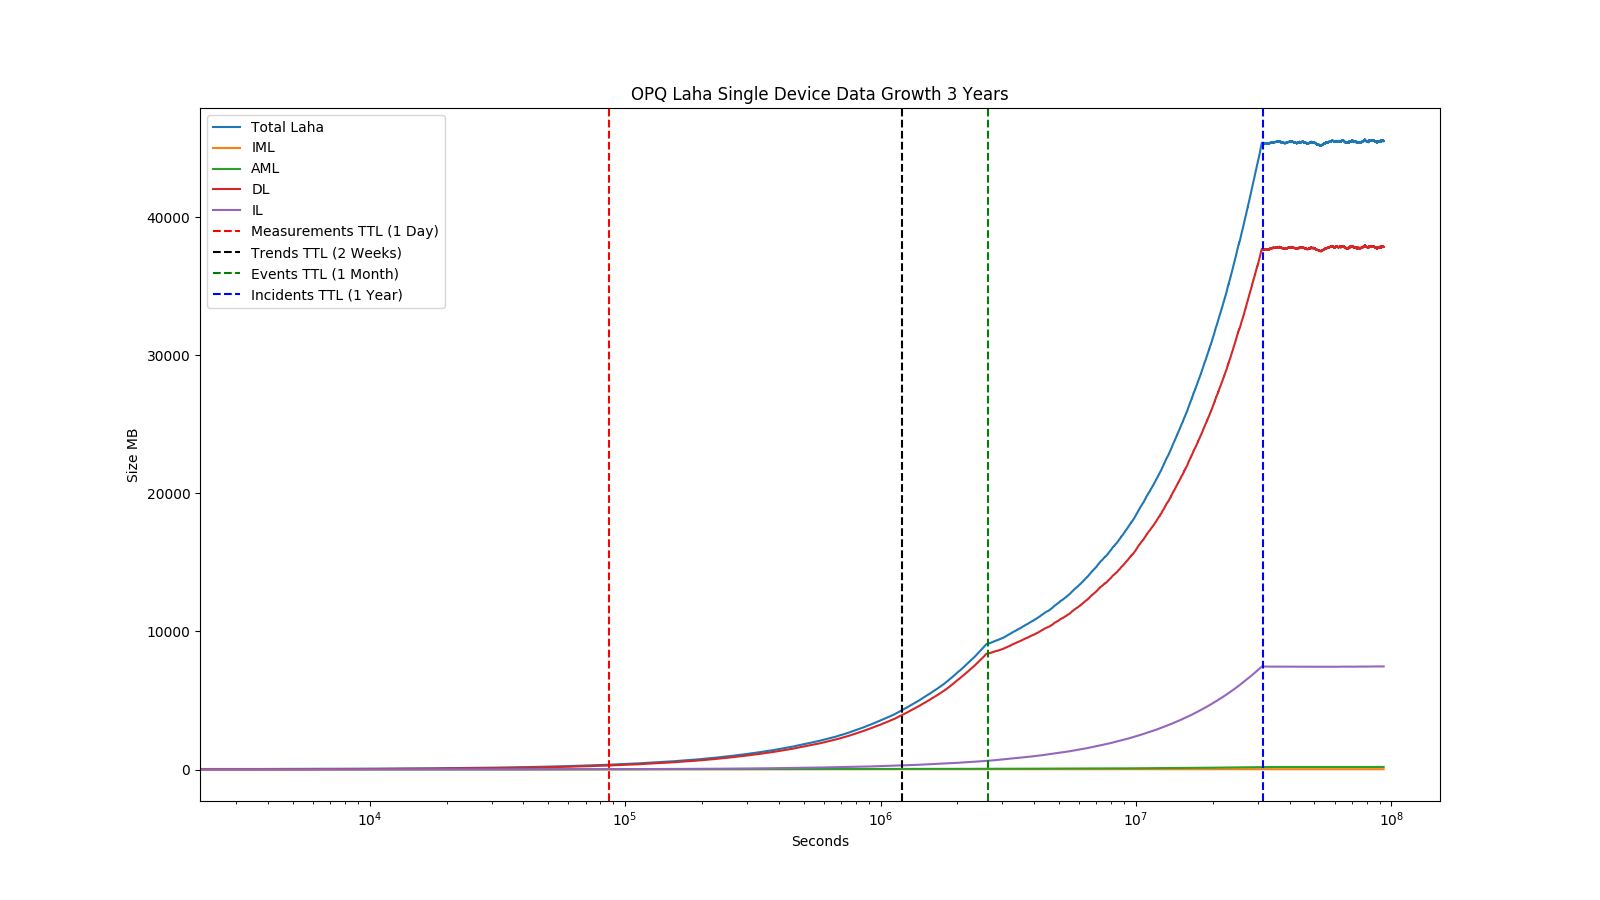
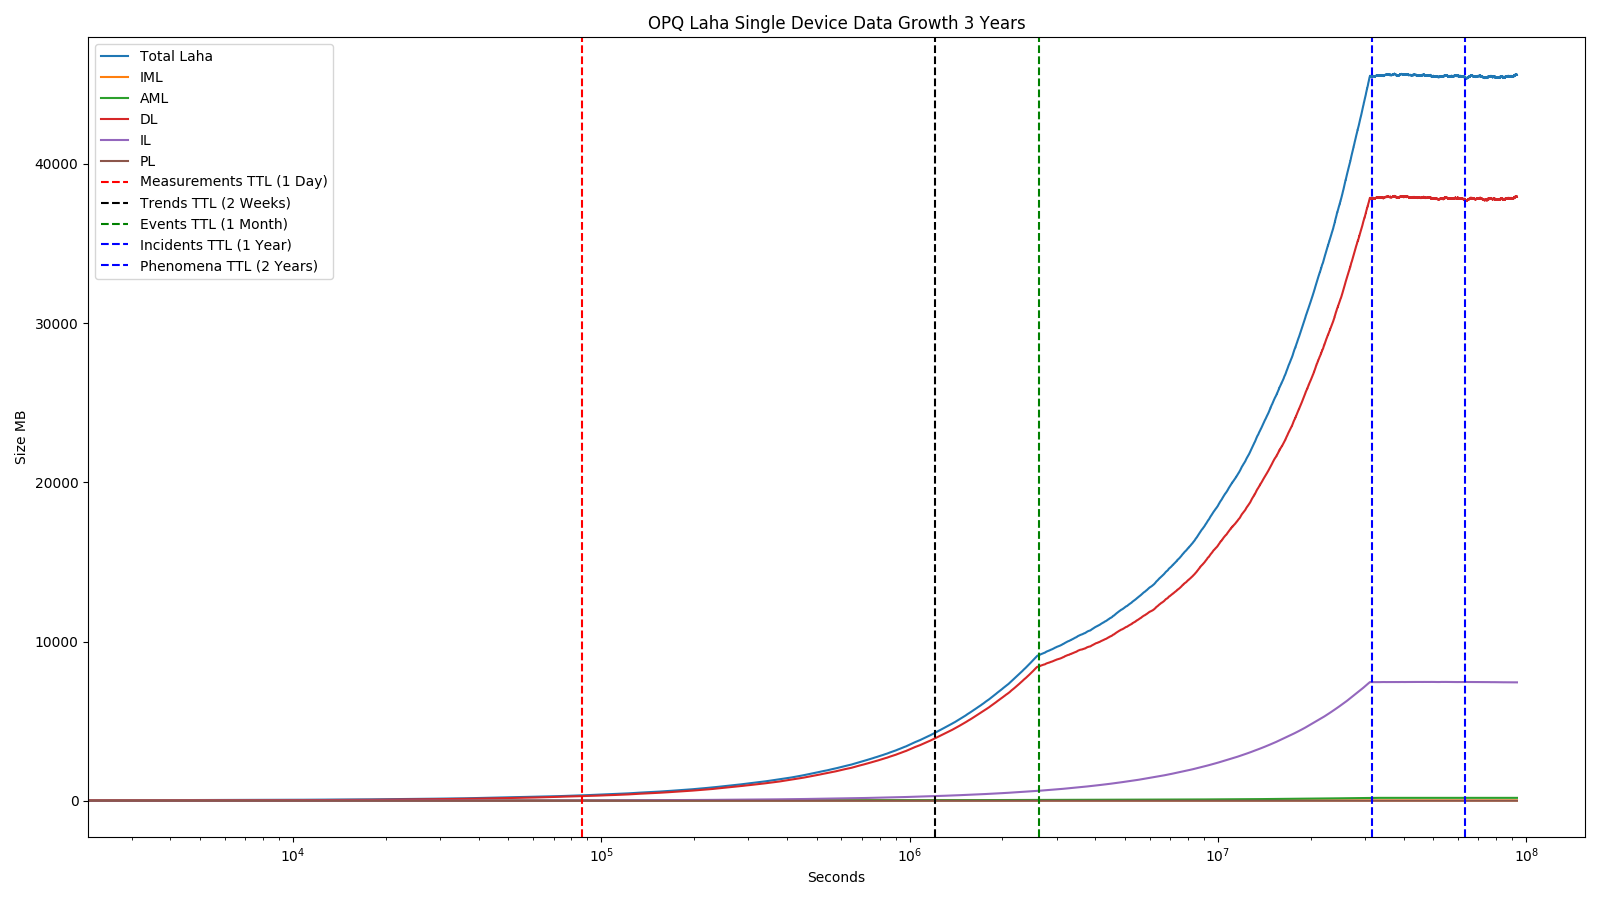
Update simulation results for with PL for OPQ.

diff --git a/plotting/opq/plot_laha.py b/plotting/opq/plot_laha.py
@@ -23,6 +23,8 @@ class Data:
                  total_event_measurements_b: int,
                  total_incident_measurements: int,
                  total_incident_measurements_b: int,
+                 total_phenomena_measurements: int,
+                 total_phenomena_measurements_b: int,
                  total_trends: int,
                  total_trends_b: int,
                  total_orphaned_trends: int,
@@ -31,19 +33,28 @@ class Data:
                  total_event_trends_b: int,
                  total_incident_trends: int,
                  total_incident_trends_b: int,
+                 total_phenomena_trends: int,
+                 total_phenomena_trends_b: int,
                  total_events: int,
                  total_events_b: int,
                  total_orphaned_events: int,
                  total_orphaned_events_b: int,
                  total_incident_events: int,
                  total_incident_events_b: int,
+                 total_phenomena_events: int,
+                 total_phenomena_events_b: int,
                  total_incidents: int,
                  total_incidents_b: int,
+                 total_phenomena_incidents: int,
+                 total_phenomena_incidents_b: int,
+                 total_phenomena: int,
+                 total_phenomena_b: int,
                  total_laha_b: int,
                  total_iml_b: int,
                  total_aml_b: int,
                  total_dl_b: int,
-                 total_il_b: int):
+                 total_il_b: int,
+                 total_pl_b: int):
         self.time: int = time
         self.total_samples: int = total_samples
         self.total_samples_b: int = total_samples_b
@@ -76,6 +87,18 @@ class Data:
         self.total_aml_b: int = total_aml_b
         self.total_dl_b: int = total_dl_b
         self.total_il_b: int = total_il_b
+
+        self.total_phenomena_measurements = total_phenomena_measurements
+        self.total_phenomena_measurements_b = total_phenomena_measurements_b
+        self.total_phenomena_trends = total_phenomena_trends
+        self.total_phenomena_trends_b = total_phenomena_trends_b
+        self.total_phenomena_events = total_phenomena_events
+        self.total_phenomena_events_b = total_phenomena_events_b
+        self.total_phenomena_incidents = total_phenomena_incidents
+        self.total_phenomena_incidents_b = total_phenomena_incidents_b
+        self.total_phenomena = total_phenomena
+        self.total_phenomena_b = total_phenomena_b
+        self.total_pl_b = total_pl_b
 
     @staticmethod
     def from_line(line: str) -> 'Data':
@@ -183,6 +206,9 @@ def plot_aml(data: List[Data], out_dir: str) -> None:
     trend_ax.axvline(seconds_in_year, 0, total_trends.max(), color="blue", linestyle="--",
                      label="Incidents TTL (1 Year)")
 
+    trend_ax.axvline(seconds_in_year * 2, 0, total_trends.max(), color="blue", linestyle="--",
+                     label="Phenomena TTL (2 Years)")
+
     trend_ax.set_title("Trends")
     trend_ax.set_ylabel("# Trends")
     trend_ax.legend()
@@ -236,6 +262,7 @@ def plot_dl(data: List[Data], out_dir: str) -> None:
     ax.plot(x, total_incident_events, label="Incident Events")
     ax.axvline(seconds_in_month, 0, total_events.max(), color="green", linestyle="--", label="Events TTL (1 Month)")
     ax.axvline(seconds_in_year, 0, total_events.max(), color="blue", linestyle="--", label="Incidents TTL (1 Year)")
+    ax.axvline(seconds_in_year * 2, 0, total_events.max(), color="blue", linestyle="--", label="Phenomena TTL (2 Years)")
 
     ax_mb: plt.Axes = ax.twinx()
     ax_mb.plot(x, total_events_mb, visible=False)
@@ -261,6 +288,7 @@ def plot_il(data: List[Data], out_dir: str) -> None:
 
     ax.plot(x, total_incidents, label="Total Incidents")
     ax.axvline(seconds_in_year, 0, total_incidents.max(), color="blue", linestyle="--", label="Incidents TTL (1 Year)")
+    ax.axvline(seconds_in_year * 2, 0, total_incidents.max(), color="blue", linestyle="--", label="Phenomena TTL (2 Years)")
 
     ax.set_title("OPQ IL Single Device Data Growth 3 Years")
     ax.set_ylabel("# Incidents")
@@ -275,6 +303,32 @@ def plot_il(data: List[Data], out_dir: str) -> None:
 
     fig.savefig(f"{out_dir}/sim_il_opq.png")
 
+def plot_pl(data: List[Data], out_dir: str) -> None:
+    fig, ax = plt.subplots(1, 1, figsize=(16, 9), sharex="all")
+    fig: plt.Figure = fig
+    ax: plt.Axes = ax
+
+    x = np.array(list(map(lambda d: d.time, data)))
+    total_phenomena = np.array(list(map(lambda d: d.total_phenomena, data)))
+    total_phenomena_mb = np.array(list(map(lambda d: d.total_phenomena_b, data))) / 1_000_000.0
+
+    ax.plot(x, total_phenomena, label="Total Phenomena")
+    ax.axvline(seconds_in_year * 2, 0, total_phenomena.max(), color="blue", linestyle="--", label="Phenomena TTL (2 Years)")
+
+    ax.set_title("OPQ PL Single Device Data Growth 3 Years")
+    ax.set_ylabel("# Phenomena")
+    ax.set_xlabel("Seconds")
+    ax.set_xscale("log")
+
+    ax_mb: plt.Axes = ax.twinx()
+    ax_mb.plot(x, total_phenomena_mb, visible=False)
+    ax_mb.set_ylabel("Size MB")
+
+    ax.legend()
+
+    fig.show()
+    fig.savefig(f"{out_dir}/sim_pl_opq.png")
+
 
 def plot_laha(data: List[Data], out_dir: str) -> None:
     fig, ax = plt.subplots(1, 1, figsize=(16, 9), sharex="all")
@@ -287,18 +341,21 @@ def plot_laha(data: List[Data], out_dir: str) -> None:
     total_aml_mb = np.array(list(map(lambda d: d.total_aml_b, data))) / 1_000_000.0
     total_dl_mb = np.array(list(map(lambda d: d.total_dl_b, data))) / 1_000_000.0
     total_il_mb = np.array(list(map(lambda d: d.total_il_b, data))) / 1_000_000.0
+    total_pl_mb = np.array(list(map(lambda d: d.total_pl_b, data))) / 1_000_000.0
 
     ax.plot(x, total_laha_mb, label="Total Laha")
     ax.plot(x, total_iml_mb, label="IML")
     ax.plot(x, total_aml_mb, label="AML")
     ax.plot(x, total_dl_mb, label="DL")
     ax.plot(x, total_il_mb, label="IL")
+    ax.plot(x, total_pl_mb, label="PL")
 
     ax.axvline(seconds_in_day, 0, total_laha_mb.max(), color="red", linestyle="--", label="Measurements TTL (1 Day)")
     ax.axvline(seconds_in_two_weeks, 0, total_laha_mb.max(), color="black", linestyle="--",
                label="Trends TTL (2 Weeks)")
     ax.axvline(seconds_in_month, 0, total_laha_mb.max(), color="green", linestyle="--", label="Events TTL (1 Month)")
     ax.axvline(seconds_in_year, 0, total_laha_mb.max(), color="blue", linestyle="--", label="Incidents TTL (1 Year)")
+    ax.axvline(seconds_in_year * 2, 0, total_laha_mb.max(), color="blue", linestyle="--", label="Phenomena TTL (2 Years)")
 
     ax.set_title("OPQ Laha Single Device Data Growth 3 Years")
     ax.set_ylabel("Size MB")
@@ -307,20 +364,23 @@ def plot_laha(data: List[Data], out_dir: str) -> None:
     # ax.set_yscale("log")
     ax.legend()
 
+    fig.show()
     fig.savefig(f"{out_dir}/sim_laha_opq.png")
 
 
 if __name__ == "__main__":
-    iml_data = parse_file("./sim_data_iml.txt")
-    data = parse_file('./sim_data.txt')
+    # iml_data = parse_file("./sim_data_iml.txt")
+    # data = parse_file('./sim_data.txt')
+    data = parse_file("/home/opq/scrap/sim_data_opq.txt")
 
-    print(f"len(iml_data)={len(iml_data)}")
-    print(f"len(data)={len(data)}")
+    # print(f"len(iml_data)={len(iml_data)}")
+    # print(f"len(data)={len(data)}")
 
-    out_dir = "/Users/anthony/Development/dissertation/src/figures"
+    out_dir = "/home/opq/Documents/anthony/dissertation/src/figures"
 
-    plot_iml(iml_data, out_dir)
+    # plot_iml(iml_data, out_dir)
     plot_aml(data, out_dir)
     plot_dl(data, out_dir)
     plot_il(data, out_dir)
     plot_laha(data, out_dir)
+    plot_pl(data, out_dir)

diff --git a/src/results.tex b/src/results.tex
@@ -1424,11 +1424,11 @@ I will compare this result to the theoretical results in following sections.
 
 The Phenomena Level (PL) contains groupings of Incidents with added context and predictive analytic capabilities.
 
-Figure~ref{fig:actual_pl_opq} shows the the PL growth over the period of the OPQ deployment.
+Figure~\ref{fig:actual_pl_opq} shows the the PL growth over the period of the OPQ deployment.
 
 \begin{figure}[H]
     \centering
-    \includegraphics[width=\linewidth]{figures/actual_phenomena_opq.png}
+    \includegraphics[width=.85\linewidth]{figures/actual_phenomena_opq.png}
     \caption{Actual PL for OPQ}
     \label{fig:actual_pl_opq}
 \end{figure}
@@ -1441,6 +1441,8 @@ Equation~\ref{eq:pl_si} provides the linear regression of the PL growth once Fut
     y = 1.6563287380621955e-06 * x + -0.1865557652111356
     \label{eq:pl_si}
 \end{equation}
+
+These results will be compared to the theoretical results in future sections.
 
 \subsubsection{DSN System Requirements OPQ}
 

diff --git a/src/evaluation.tex b/src/evaluation.tex
@@ -901,7 +901,14 @@ The PL (Phenomena Level) contains metadata which provides actionable insights an
 
 The minimum bounds on the PL can be found by bounding the PL by its TTL (2 years).
 
-This is left as an exercise to the reader. Just kidding, we only have one Phenomena and that doesn't really tell us anything in terms of bounds yet. Need a couple of Phenomena to update this section.
+Figure~\ref{fig:sim_pl_opq} shows the simulated growth of the PL for the OPQ network over the course of 3 years.
+
+\begin{figure}[H]
+	\centering
+	\includegraphics[width=\linewidth]{figures/sim_pl_opq.png}
+	\caption{Simulated PL for OPQ}
+	\label{fig:sim_pl_opq}
+\end{figure}
 
 \paragraph{Evaluation of Laha with TTL}
 
